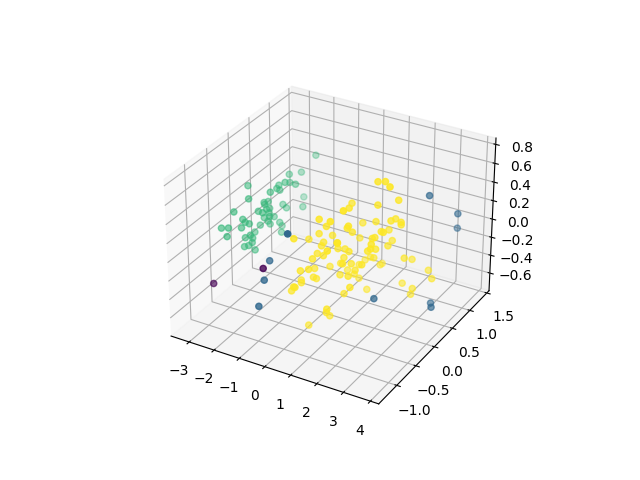
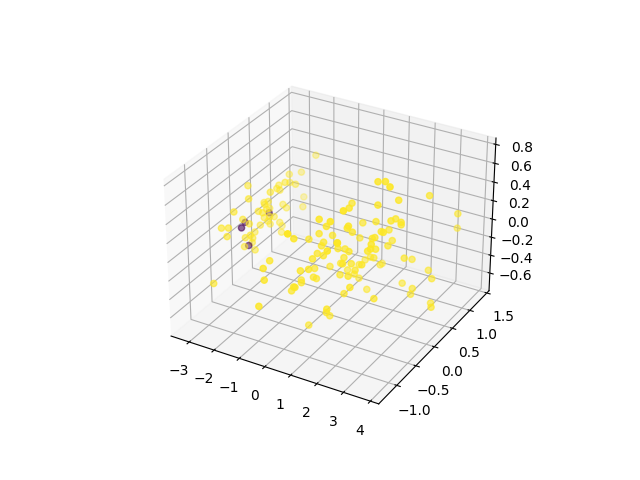
all backends done

diff --git a/ui.py b/ui.py
@@ -75,7 +75,7 @@ def display_ui():
         extension = temp_arr[1]
 
         # call appropriate file reader
-        global input_data 
+        global input_data
         if extension == "csv":
             input_data = read_csv(filename, True, True, 3)
         elif extension == "xlsx":
@@ -117,13 +117,10 @@ def display_ui():
         Parameter1 = customtkinter.CTkLabel(top, text="Damping Factor")
         Parameter1.place(relx=0.2, rely=0.3)
 
-        Parameter2 = customtkinter.CTkLabel(top, text="Max ITerations")
+        Parameter2 = customtkinter.CTkLabel(top, text="Max Iterations")
         Parameter2.place(relx=0.2, rely=0.4)
 
-        global entry1, entry2, entry3
-
-        # entry3 is null
-        entry3 = None
+        global entry1, entry2
 
         # e1 = customtkinter.CTkEntry(top).place(relx = 0.5,y = 0.1)
         entry1 = customtkinter.CTkEntry(master=top,
@@ -143,8 +140,7 @@ def display_ui():
 
         submit_buttonx = customtkinter.CTkButton(
             top, text="Submit", command=submit2).place(relx=0.35, rely=0.75)
-        # ret_arr.append([entry1.get(), entry2.get(), entry3.get()])
-        # print(ret_arr)
+
         top.mainloop()
 
     def kmeans_window():
@@ -154,39 +150,28 @@ def display_ui():
         top.geometry("400x250")
         top.title('K-Means')
 
-        Parameter1 = customtkinter.CTkLabel(top, text="Parameter1")
+        Parameter1 = customtkinter.CTkLabel(top, text="Number of Clusters")
         Parameter1.place(relx=0.2, rely=0.3)
 
-        Parameter2 = customtkinter.CTkLabel(top, text="Parameter2")
+        Parameter2 = customtkinter.CTkLabel(top, text="Max Iterations")
         Parameter2.place(relx=0.2, rely=0.4)
 
-        Parameter3 = customtkinter.CTkLabel(top, text="Parameter3")
-        Parameter3.place(relx=0.2, rely=0.5)
+        global entry1, entry2
 
-        global entry1, entry2, entry3
-
-        # e1 = customtkinter.CTkEntry(top).place(relx = 0.5,y = 0.1)
         entry1 = customtkinter.CTkEntry(master=top,
-                                        placeholder_text="CTkEntry",
+                                        placeholder_text=">1, < num_rows",
                                         width=120,
                                         height=25,
                                         border_width=2,
                                         corner_radius=10)
         entry1.place(relx=0.5, rely=0.3)
         entry2 = customtkinter.CTkEntry(master=top,
-                                        placeholder_text="CTkEntry",
+                                        placeholder_text="> 0 , < 1000",
                                         width=120,
                                         height=25,
                                         border_width=2,
                                         corner_radius=10)
         entry2.place(relx=0.5, rely=0.4)
-        entry3 = customtkinter.CTkEntry(master=top,
-                                        placeholder_text="CTkEntry",
-                                        width=120,
-                                        height=25,
-                                        border_width=2,
-                                        corner_radius=10)
-        entry3.place(relx=0.5, rely=0.5)
 
         submit_buttonx = customtkinter.CTkButton(
             top, text="Submit", command=submit2).place(relx=0.35, rely=0.75)
@@ -201,56 +186,44 @@ def display_ui():
         top.geometry("400x250")
         top.title('DB Scan')
 
-        Parameter1 = customtkinter.CTkLabel(top, text="Parameter1")
+        Parameter1 = customtkinter.CTkLabel(top, text="Epsilon")
         Parameter1.place(relx=0.2, rely=0.3)
 
-        Parameter2 = customtkinter.CTkLabel(top, text="Parameter2")
+        Parameter2 = customtkinter.CTkLabel(top, text="Min Points")
         Parameter2.place(relx=0.2, rely=0.4)
 
-        Parameter3 = customtkinter.CTkLabel(top, text="Parameter3")
-        Parameter3.place(relx=0.2, rely=0.5)
-
-        global entry1, entry2, entry3
+        global entry1, entry2
 
         # e1 = customtkinter.CTkEntry(top).place(relx = 0.5,y = 0.1)
         entry1 = customtkinter.CTkEntry(master=top,
-                                        placeholder_text="CTkEntry",
+                                        placeholder_text="> 0 , < 1",
                                         width=120,
                                         height=25,
                                         border_width=2,
                                         corner_radius=10)
         entry1.place(relx=0.5, rely=0.3)
         entry2 = customtkinter.CTkEntry(master=top,
-                                        placeholder_text="CTkEntry",
+                                        placeholder_text="> 0 , < 1000",
                                         width=120,
                                         height=25,
                                         border_width=2,
                                         corner_radius=10)
         entry2.place(relx=0.5, rely=0.4)
-        entry3 = customtkinter.CTkEntry(master=top,
-                                        placeholder_text="CTkEntry",
-                                        width=120,
-                                        height=25,
-                                        border_width=2,
-                                        corner_radius=10)
-        entry3.place(relx=0.5, rely=0.5)
 
         submit_buttonx = customtkinter.CTkButton(
             top, text="Submit", command=submit2).place(relx=0.35, rely=0.75)
-        # ret_arr.append([entry1.get(), entry2.get(), entry3.get()])
-        # print(ret_arr)
         top.mainloop()
 
     def submit2():
-     
+
         # call the appropriate algorithms
         if algo_clicked.get() == "affinity clustering":
-            call_affinity(input_data, entry1.get(), entry2.get())
+            call_affinity(input_data, float(entry1.get()), int(entry2.get()))
         elif algo_clicked.get() == "dbscan":
-            call_dbscan(input_data, entry1.get(), entry2.get())
+            call_dbscan(input_data, float(entry1.get()), int(entry2.get()))
         elif algo_clicked.get() == "kmeans":
-            call_kmeans(input_data, entry1.get(), entry2.get())
-        
+            call_kmeans(input_data, int(entry1.get()), int(entry2.get()))
+
         top.destroy()
         after_ui(algo_clicked.get())
 
@@ -265,8 +238,6 @@ def display_ui():
     labelNum1.place(relx=0.15, rely=0.2)
 
     algo_clicked = customtkinter.StringVar(value="affinity clustering")
-    # algo_clicked.set( "affinity clustering" )
-    # drop2 = customtkinter.CTkOptionMenu( root , algo_clicked , *algo_options )
 
     drop2 = customtkinter.CTkOptionMenu(master=root,
                                         values=["affinity clustering",
@@ -353,15 +324,16 @@ def slideshow(algorithm):
     slideshow_root = customtkinter.CTk()
 
     slideshow_root.title("Image Viewer")
-    slideshow_root.geometry("432x450")
+    # slideshow_root.geometry("432x450")
+    # slideshow should start with full screen
+    slideshow_root.attributes('-fullscreen', True)
 
-    
     if algorithm == "affinity clustering":
-        folder_path = FOLDER_PATH  + "AffinityPropogations/" 
+        folder_path = FOLDER_PATH + "AffinityPropogations/"
     if algorithm == "dbscan":
         folder_path = FOLDER_PATH + "DBScan/"
     if algorithm == "kmeans":
-        folder_path = FOLDER_PATH + "KMeans/"
+        folder_path = FOLDER_PATH + "Kmeans/"
     List_images = []
     total_image = len(os.listdir(folder_path))
     print(len(os.listdir(folder_path)))

diff --git a/algorithms/k_means.py b/algorithms/k_means.py
@@ -31,11 +31,11 @@ def kmeans(X, K, max_iters=100):
 #         plt.show()
     return all_centroids,all_labels
 
-def call_kmeans(Y):
+def call_kmeans(dataset, num_clusters=3, max_iters=100):
     # os.chdir("..")
     os.system("rm -r Outputs/Kmeans")
     os.mkdir("Outputs/Kmeans")
-    all_centroids, all_labels = kmeans(Y, K=3)
+    all_centroids, all_labels = kmeans(dataset, num_clusters, max_iters)
     for i in range(100):
         if i!=0 and np.array_equal(all_centroids[i],all_centroids[i-1]) and np.array_equal(all_labels[i],all_labels[i-1]):
             break

diff --git a/algorithms/db_scan.py b/algorithms/db_scan.py
@@ -149,12 +149,12 @@ def region_query(D, P, eps):
     return neighbors
 
 
-def call_dbscan(Y):
+def call_dbscan(dataset,epsilon=0.5,MinPts=5):
     # os.chdir("..")
     os.system("rm -r Outputs/DBScan")
     os.mkdir("Outputs/DBScan")
 
-    all_labels = dbscan(Y)
+    all_labels = dbscan(dataset, epsilon, MinPts)
     for i in range(len(all_labels)):
         labels = all_labels[i]
         ax = plt.axes(projection ="3d")
